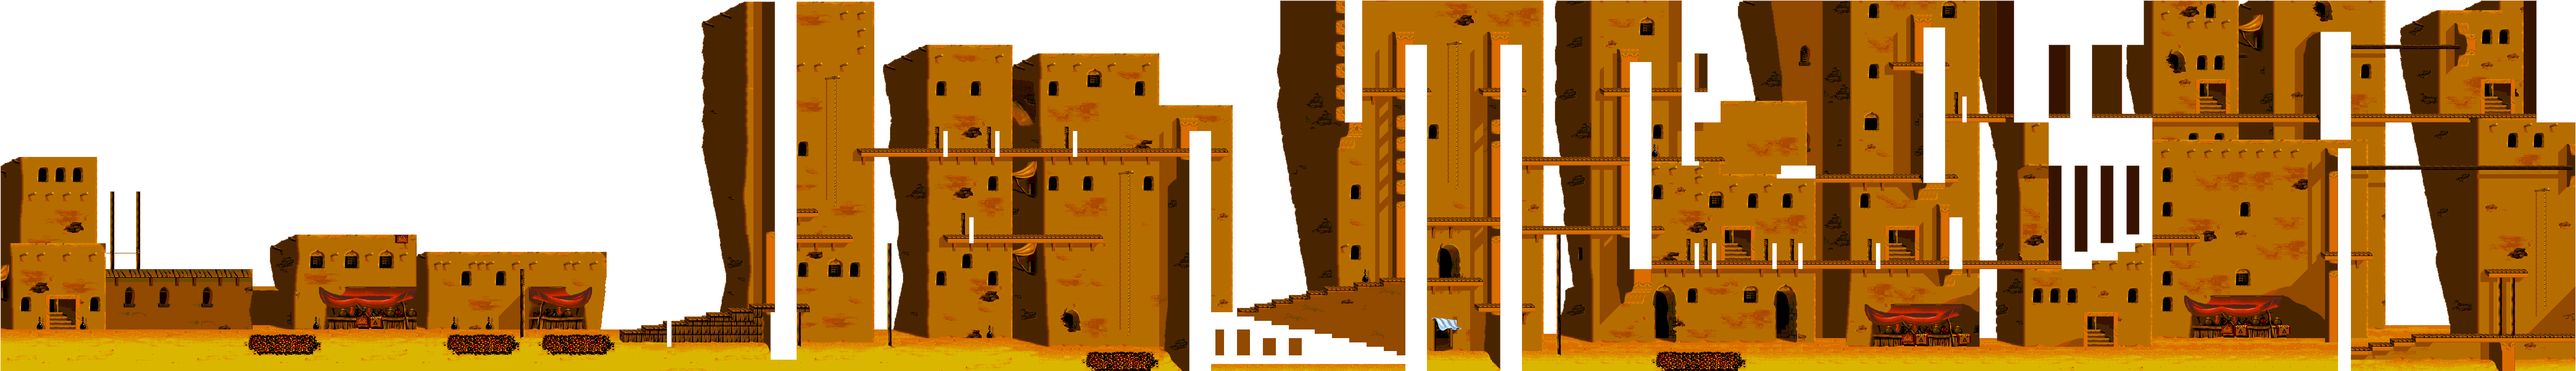
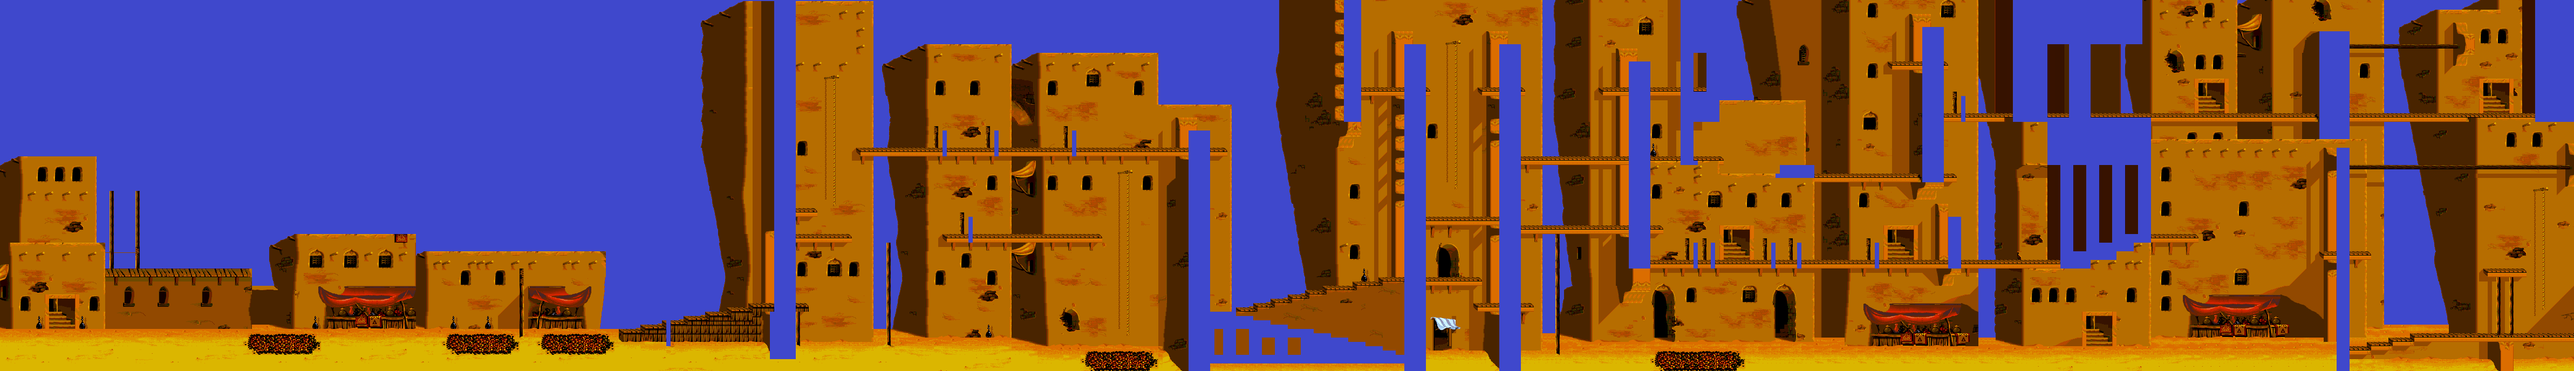
- Fix camera bug - Update Jump Action

diff --git a/NMGame/AladdinCharacter.cpp b/NMGame/AladdinCharacter.cpp
@@ -52,7 +52,7 @@ AladdinCharacter::AladdinCharacter( D3DXVECTOR3  pos)
 	temp.push_back(MyRECT(0, 111, 162, 52));
 	temp.push_back(MyRECT(0, 163, 214, 50));
 	temp.push_back(MyRECT(104, 203, 240, 154));
-	this->mAladdinState.push_back(new ObjectState(temp, 20, L"WalkStop.png", D3DXVECTOR2(0.2, 0)));
+	this->mAladdinState.push_back(new ObjectState(temp, 20, L"WalkStop.png", D3DXVECTOR2(0.1, 0)));
 	temp.clear();
 
 	//LookUp
@@ -261,21 +261,22 @@ void AladdinCharacter::Update(float DeltaTime)
 	
 	case AState::RunAndJump:
 	{
+
 		float vx = (KeyboardHelper::GetInstance()->IsKeyDown(DIK_RIGHT)
 			|| KeyboardHelper::GetInstance()->IsKeyDown(DIK_LEFT)) ?
-			0.7   : 0;//0.785 ~ PI/4
-		
+			0.6   : 0;//0.785 ~ PI/4
+		 
 		//float vy = -2 * 0.5 *0.7;//Sin(PI/4) ~ 0.7
 		/*float vy = -10;
 		printLog(to_string(this->mAladdinState.at(mCurrentState)->GetPosition().y).c_str());*/
 		
-		mTime += DeltaTime/44;
+		mTime += DeltaTime/24;
 
-		this->mAladdinState.at(mCurrentState)->SetVelocity(vx, -1.8);
-		this->mAladdinState.at(mCurrentState)->SetAcceleration(0, 0.35);
-		if (this->mAladdinState.at(mCurrentState)->GetPosition().y >  WORLD_Y - MAP_HEIGHT + 100)
+		this->mAladdinState.at(mCurrentState)->SetVelocity(vx, 0.62);
+		this->mAladdinState.at(mCurrentState)->SetAcceleration(0, -0.057);
+		if (this->mAladdinState.at(mCurrentState)->GetPosition().y <  WORLD_Y - MAP_HEIGHT + 90)
 		{
-			this->mAladdinState.at(mCurrentState)->SetPosition(this->mAladdinState.at(mCurrentState)->GetPosition().x, WORLD_Y - MAP_HEIGHT + 100);
+			this->mAladdinState.at(mCurrentState)->SetPosition(this->mAladdinState.at(mCurrentState)->GetPosition().x, WORLD_Y - MAP_HEIGHT + 90);
 			this->allowStateChange = true;
 		}
 

diff --git a/NMGame/DemoScene.cpp b/NMGame/DemoScene.cpp
@@ -28,6 +28,19 @@ void DemoScene::Update(float DeltaTime)
 void DemoScene::Render(float DeltaTime)
 {
 	
+	LPDIRECT3DSURFACE9			_Surface;
+	GraphicsHelper::GetInstance()->GetDirectDevice()->CreateOffscreenPlainSurface(
+		100,
+		100,
+		D3DFMT_X8R8G8B8,
+		D3DPOOL_DEFAULT,
+		&_Surface,
+		NULL);
+
+	GraphicsHelper::GetInstance()->GetDirectDevice()->ColorFill(_Surface, NULL, D3DCOLOR_XRGB(0, 0, 0));
+
+	GraphicsHelper::GetInstance()->GetDirectDevice()->StretchRect(_Surface,	NULL, GraphicsHelper::GetInstance()->GetBackBuffer(),	NULL,D3DTEXF_NONE);
+
 
 	this->mMap->Render(DeltaTime,MapLevel::MapLevel1);
 
@@ -37,7 +50,7 @@ void DemoScene::Render(float DeltaTime)
 	this->mAladdinHelper->Render(DeltaTime);
 
 	
-
+	this->mMap->Render(DeltaTime, MapLevel::MapLevel2);
 
 }
 
@@ -49,7 +62,7 @@ void DemoScene::LoadResource()
 	D3DXVECTOR3 imagepos; //vector for the position of the sprite
 
 	imagepos.x = 100.0f; //coord x of our sprite
-	imagepos.y = WORLD_Y - MAP_HEIGHT + 100; //coord y of out sprite
+	imagepos.y = WORLD_Y - MAP_HEIGHT + 90; //coord y of out sprite
 	//imagepos.y = 200;
 	imagepos.z = 0.0f; //coord z of out sprite
 

diff --git a/NMGame/DemoMap.cpp b/NMGame/DemoMap.cpp
@@ -22,7 +22,7 @@ void DemoMap::LoadResource()
 		D3DPOOL_DEFAULT,
 		D3DX_DEFAULT,
 		D3DX_DEFAULT,
-		D3DCOLOR_XRGB(255, 0, 255),
+		D3DCOLOR_XRGB(63, 72, 204),
 		&mImageInfo,
 		NULL,
 		&this->mMapTextureLevel1);
@@ -30,7 +30,7 @@ void DemoMap::LoadResource()
 
 	D3DXGetImageInfoFromFile(L"MapLevel2.png", &mImageInfo);
 
-	D3DXCreateTextureFromFileEx(GraphicsHelper::GetInstance()->GetDirectDevice(), L"MapLevel1.png", mImageInfo.Width,
+	D3DXCreateTextureFromFileEx(GraphicsHelper::GetInstance()->GetDirectDevice(), L"MapLevel2.png", mImageInfo.Width,
 		mImageInfo.Height,
 		1,
 		D3DUSAGE_DYNAMIC,
@@ -38,10 +38,10 @@ void DemoMap::LoadResource()
 		D3DPOOL_DEFAULT,
 		D3DX_DEFAULT,
 		D3DX_DEFAULT,
-		D3DCOLOR_XRGB(255, 0, 255),
+		D3DCOLOR_XRGB(63, 72, 204),
 		&mImageInfo,
 		NULL,
-		&this->mMapTextureLevel1);
+		&this->mMapTextureLevel2);
 
 
 	

diff --git a/NMGame/Map.cpp b/NMGame/Map.cpp
@@ -34,5 +34,9 @@ void Map::Render(float DeltaTime, MapLevel mMapLevel)
 		GraphicsHelper::GetInstance()->DrawTexture(mMapTextureLevel1, MyRECT(0, 0, 4771, 688), D3DXVECTOR3(0, 0, 0), inPosition, D3DXVECTOR2(2,2.5), translation);
 		//GraphicsHelper::GetInstance()->DrawTexture(mMapTextureLevel1, MyRECT(0, 0, 4771, 688), D3DXVECTOR3(0, 0, 0), D3DXVECTOR3(0, 0, 0));
 		break;
+	case  MapLevel::MapLevel2:
+		GraphicsHelper::GetInstance()->DrawTexture(mMapTextureLevel2, MyRECT(0, 0, 4771, 688), D3DXVECTOR3(0, 0, 0), inPosition, D3DXVECTOR2(2, 2.5), translation);
+		//GraphicsHelper::GetInstance()->DrawTexture(mMapTextureLevel1, MyRECT(0, 0, 4771, 688), D3DXVECTOR3(0, 0, 0), D3DXVECTOR3(0, 0, 0));
+		break;
 	}
 }

diff --git a/NMGame/ObjectState.cpp b/NMGame/ObjectState.cpp
@@ -68,7 +68,6 @@ void ObjectState::Move(float delta_time)
 {
 
 	SetPosition(this->GetPosition().x + ((GetFlipVertical() == false) ? (1.0f) : (-1.0f))* ( this->GetVelocity().x * delta_time + 0.5 *  this->mAcceleration.x * pow(delta_time,2)), this->GetPosition().y + this->GetVelocity().y * delta_time + 0.5 *  this->mAcceleration.y * pow(delta_time, 2));
-	
 
 }
 

diff --git a/NMGame/Map.h b/NMGame/Map.h
@@ -24,7 +24,7 @@ public:
 protected:
 	D3DXVECTOR3				mPosition;
 
-	LPDIRECT3DTEXTURE9		mMapTextureLevel1, MapTextureLevel2;
+	LPDIRECT3DTEXTURE9		mMapTextureLevel1, mMapTextureLevel2;
 	MyRECT					mRectMap;
 
 };
